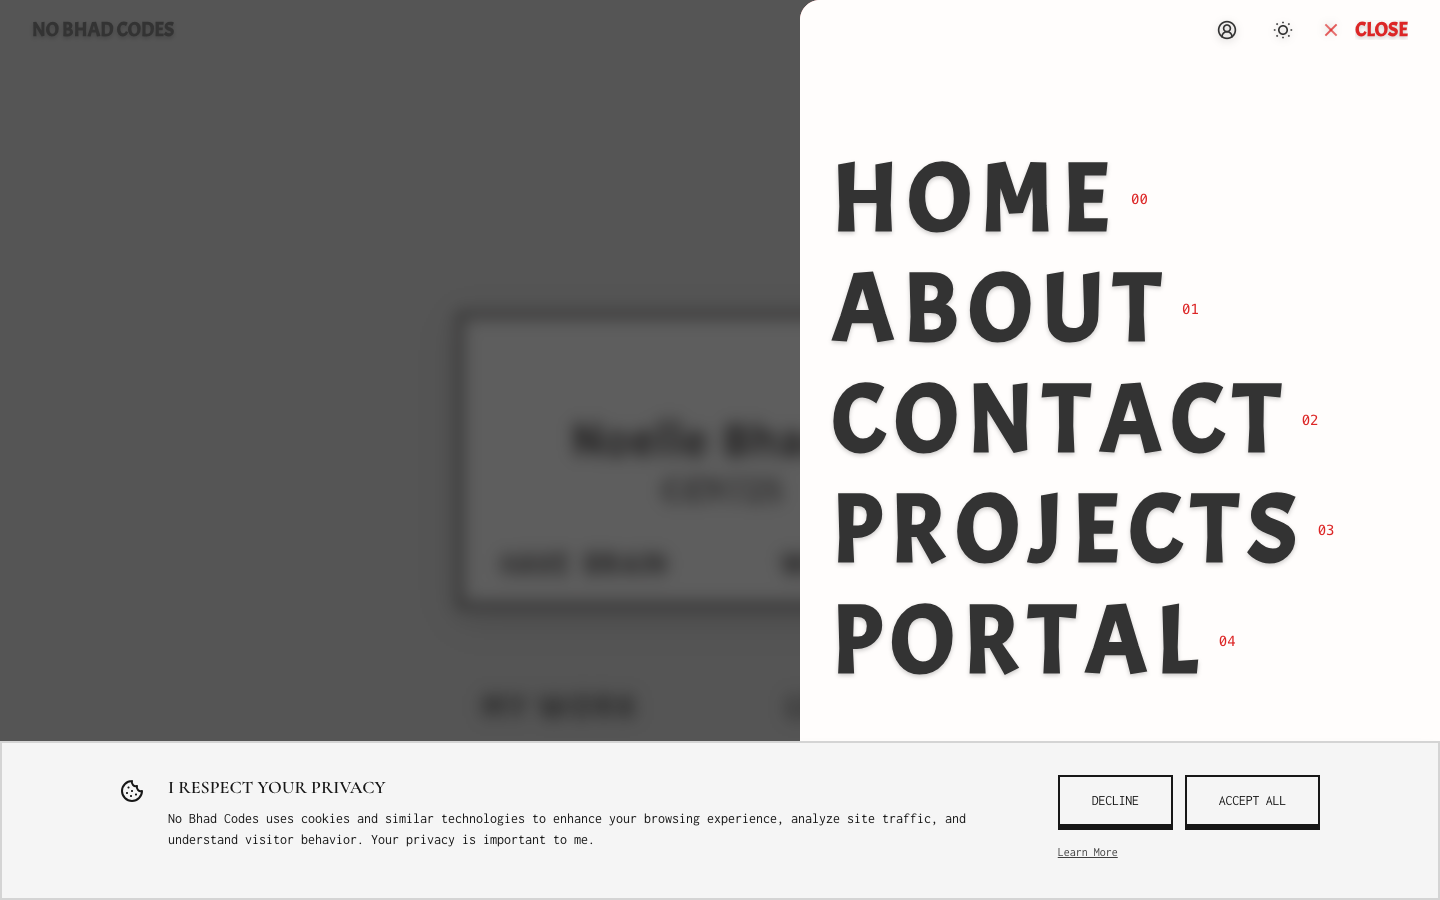
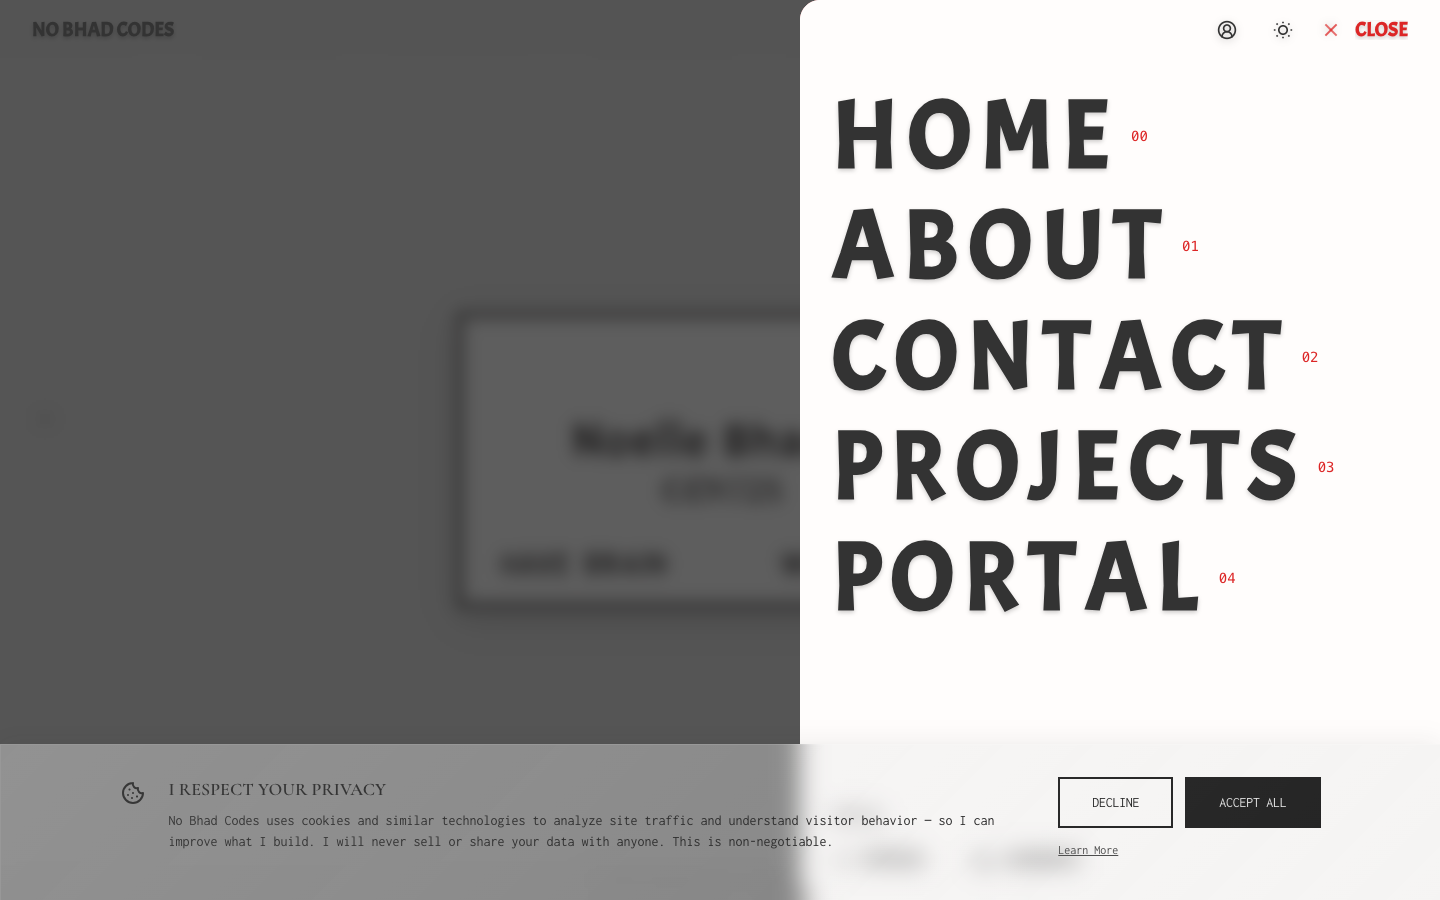
chore(scripts): add CLI mode flags to capture-portfolio
Renamed take-screenshots.ts to capture-portfolio.ts (name now
reflects the dual screenshot + video output). Adds CLI flags so
individual capture types can be regenerated:

- npx tsx scripts/capture-portfolio.ts                (defaults --all)
- npx tsx scripts/capture-portfolio.ts --screenshots
- npx tsx scripts/capture-portfolio.ts --video
- npx tsx scripts/capture-portfolio.ts --all

Regenerated home-light-desktop.png and nav-open-light-desktop.png
under the new flow.

Changed region(s): [[0.5625, 0.0933, 0.9062, 0.7467], [0.0, 0.8089, 1.0, 1.0], [0.6875, 0.84, 0.9375, 0.9644]]

diff --git a/scripts/capture-portfolio.ts b/scripts/capture-portfolio.ts
@@ -4,8 +4,18 @@
  * Also records video walkthroughs of the site.
  * No browser chrome — clean viewport-only captures.
  *
- * Usage: npx tsx scripts/take-screenshots.ts
+ * Usage:
+ *   npx tsx scripts/capture-portfolio.ts                  (defaults to --all)
+ *   npx tsx scripts/capture-portfolio.ts --screenshots    (screenshots only)
+ *   npx tsx scripts/capture-portfolio.ts --video          (videos only)
+ *   npx tsx scripts/capture-portfolio.ts --all            (both)
  */
+
+const MODE_SCREENSHOTS = '--screenshots';
+const MODE_VIDEO = '--video';
+const MODE_ALL = '--all';
+const VALID_MODES = [MODE_SCREENSHOTS, MODE_VIDEO, MODE_ALL] as const;
+type Mode = typeof VALID_MODES[number];
 
 import puppeteer from 'puppeteer';
 import path from 'path';
@@ -229,9 +239,23 @@ async function recordVideos() {
 // MAIN
 // ============================================
 
+function parseMode(argv: string[]): Mode {
+  const flag = argv.find((arg) => VALID_MODES.includes(arg as Mode));
+  if (!flag) return MODE_ALL;
+  return flag as Mode;
+}
+
 async function main() {
-  await takeScreenshots();
-  await recordVideos();
+  const mode = parseMode(process.argv.slice(2));
+  console.log(`Mode: ${mode}\n`);
+
+  if (mode === MODE_SCREENSHOTS || mode === MODE_ALL) {
+    await takeScreenshots();
+  }
+  if (mode === MODE_VIDEO || mode === MODE_ALL) {
+    await recordVideos();
+  }
+
   console.log('Done!');
 }
 
